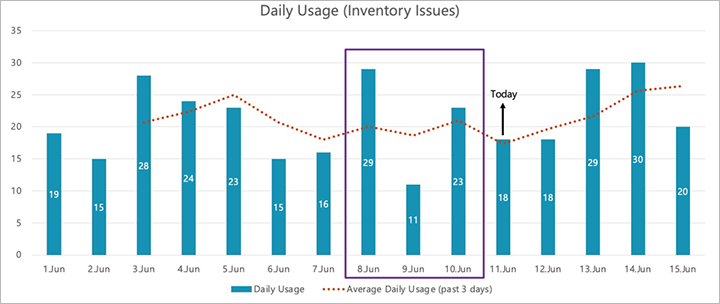
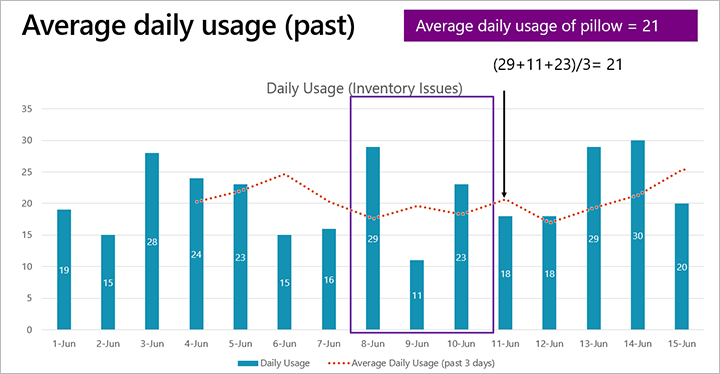
review

diff --git a/articles/supply-chain/master-planning/planning-optimization/ddmrp-buffer-profile-and-levels.md b/articles/supply-chain/master-planning/planning-optimization/ddmrp-buffer-profile-and-levels.md
@@ -18,7 +18,7 @@ ms.dyn365.ops.version: 10.0.28
 [!include [banner](../../includes/banner.md)]
 [!INCLUDE [preview-banner](../../includes/preview-banner.md)]
 
-Once you've identified your decoupling points (key items that you'll strategically keep in stock) you must decide how much stock (buffer) you'll keep at each of them. This is the second step of Demand Driven Materials Resource Planning (DDMRP).
+Once you've identified your decoupling points (key items that you'll strategically keep in stock), you must decide how much stock (buffer) you'll keep at each of them. This is the second step of Demand Driven Materials Resource Planning (DDMRP).
 
 ## Buffer levels and zones
 
@@ -67,8 +67,6 @@ The system calculates the amount you consume per day using one of three approach
 Past average daily usage (ADU) is calculated as an average by adding up the quantities used each day for a specified number of past days and then dividing by that number of days. The following illustration shows how this works when looking three days into the past.
 
 ![Average daily usage (past) chart.](media/ddmrp-adu-past.png "Average daily usage (past) chart")
-
-<!-- KFM: The average values in the figure are shifted back one day, so this image should be updated. -->
 
 In previous illustration, if today is the morning of June 11, the average daily usage for the previous three days (June 8, 9, and 10) is 21.
 
@@ -174,9 +172,12 @@ Use the following procedure to set up buffer values for a decoupling point:
     1. A dialog opens to tell you that your manual buffer settings (**Minimum**, **Reorder point**, and **Maximum**) will be reset if you continue. Select *Yes* to keep the new setting.
 1. If you prefer to calculate or enter your buffer settings just once, then do the following steps:
     1. Set **Buffer values over time** to *No*.
-    1. Set **Minimum** to the value you've calculated for the minimum stock level (red zone), as described earlier in this article.
-    1. Set **Reorder point** to the value you've calculated for the reorder point (yellow zone), as described earlier in this article.
-    1. Set **Maximum** to the value you've calculated for the maximum stock level (green zone), as described earlier in this article.
+    1. Set **Minimum**, **Reorder point**, and **Maximum** to the buffer values you've calculated for this item, as described earlier in this article.
+1. Make the following settings to finish setting up the DDMRP calculations for the item:
+    - **Order cycle** – Set to the number of days that must pass between purchase orders for this item. Set to zero if no order restrictions exist. This affects the maximum quantity buffer, as discussed previously in this article.
+    - **Average daily usage** – If you would like to, you can enter an estimated average daily usage for this item here. This is for informational purposes only; usually this value is calculated automatically as part of the buffer calculations
+    - **Order spike threshold** – Specify the minimum number of daily sales of this item that would qualify as a sales spike (unusually high demand). The system uses this value to increase the reorder quantity of planned orders in periods of high demand. See also [Demand driven planning](ddmrp-planning.md).
+
 
 ### <a name="calc-lead-time"></a>Calculate or enter decoupled lead times
 
@@ -217,7 +218,7 @@ For items where you choose to allow the system to [calculate your buffer zones a
 1. Edit the **Demand adjustment factor** field for one or more rows as needed. The system will apply this factor to the **Average daily usage** value in all buffer calculations where that value is used. This factor enables you to adjust for how demand fluctuates by date, such as for holidays or seasonal items.
 1. On the Action Pane, open the **Buffer values** tab and select **Calculate min, max and reorder point quantities**.
 1. The system calculates and populates the **Calculated min**, **Calculated reorder point** and **Calculated max** columns in the grid on the **Item coverage** page.
-1. When you are done reviewing the calculated values, you must apply them, otherwise they'll have no effect. When you apply a calculation for one or more rows, values from the **Calculated min**, **Calculated reorder**, and **Calculated max** fields are copied to the **Min**, **Reorder point**, and **Max** columns, respectively. On the Action Pane, open the **Buffer values** tab and select one of the following buttons from the **Take action** group:
+1. When you're done reviewing the calculated values, you must apply them, otherwise they'll have no effect. When you apply a calculation for one or more rows, values from the **Calculated min**, **Calculated reorder**, and **Calculated max** fields are copied to the **Min**, **Reorder point**, and **Max** columns, respectively. On the Action Pane, open the **Buffer values** tab and select one of the following buttons from the **Take action** group:
     - **Accept all calculations** – Applies all calculated values in the grid.
     - **Accept calculations for selected rows** – Only applies calculated values for the selected rows.
     - **Discard all calculations** – Discards all calculated values for min, max, and reorder points in the grid.
@@ -231,11 +232,11 @@ Use the following procedure to schedule automatic buffer value calculations:
 
 1. Go to **Master planning \> Master planning \> DDMRP \> Calculate buffer values**
 1. The **Calculate buffer values** dialog opens. Make the following settings:
-    - **Calculate average daily usage** – <!--KFM: describe the effect of each setting (yes/no) and the conditions under which you would choose each of them -->
-    - **Calculate decoupled lead time** – <!--KFM: describe the effect of each setting (yes/no) and the conditions under which you would choose each of them -->
-    - **Calculate buffer values** – <!--KFM: describe the effect of each setting (yes/no) and the conditions under which you would choose each of them -->
-    - **Accept calculation for min, max and reorder point** – <!--KFM: describe the effect of each setting (yes/no) and the conditions under which you would choose each of them -->
-    - **Master plan** – <!--KFM: describe this setting and how/when to use it. -->
+    - **Calculate average daily usage** – Set to *Yes* to recalculate the average daily usage of decoupling point items each time the job runs. Set to *No* to skip this calculation. Usually you should set this to *Yes*.
+    - **Calculate decoupled lead time** – Set to *Yes* to recalculate the decoupled lead times each time the job runs. Set to *No* to skip this calculation. Usually you should set this to *Yes*.
+    - **Calculate buffer values** – Set to *Yes* to recalculate buffer values each time the job runs. Set to *No* to skip this calculation. Usually you should set this to *Yes*.
+    - **Accept calculation for min, max and reorder point** – Set to *Yes* to automatically approve and apply the recalculated buffer values each time the job runs. Set to *No* to leave them unapplied (which means they won't take effect unless somebody manually applies them later from each product's **Item coverage** page). Usually you should set this to *Yes*.
+    - **Master plan** – Select a master plan that includes the items to be affected by this calculation. The calculation will apply to all of the items in the plan filter, additionally limited by the **Filter** settings in this dialog.
 1. To limit the set of records on which this batch job should run, expand the **Records to include** FastTab and select **Filter** to open the **Inquiry** dialog, which works the same as it does for other types of [background jobs](../../../fin-ops-core/dev-itpro/sysadmin/batch-processing-overview.md) in Supply Chain Management
 1. On the **Run in the background** FastTab, specify how, when, and how often the selected calculations should be made for the selected items. The fields work just as they do for other types of [background jobs](../../../fin-ops-core/dev-itpro/sysadmin/batch-processing-overview.md) in Supply Chain Management.
 1. Select **OK** to add the new job to a batch queue for execution.

diff --git a/articles/supply-chain/master-planning/planning-optimization/ddmrp-planning.md b/articles/supply-chain/master-planning/planning-optimization/ddmrp-planning.md
@@ -22,34 +22,31 @@ The article describes how to generate planned orders for items that are set up a
 
 ## Net flow and qualified demand
 
-<!-- KFM: We should add some sub-headings for the theory. We should introduce the terms "net flow" and "qualified demand" and explain why we are talking about them here.  -->
-
-The following illustration shows how net flow is calculated as on-hand inventory plus inventory that is on order (existing supply orders that aren't yet received) minus what we term to be qualified demand.
-<!-- KFM: The figure also confuses me--what values are we showing here? -->
+During master planning, the system applies the concept of *net flow* to establish the effective on-hand quantity based both on the actual on-hand inventory plus inventory that is on order (existing supply orders that aren't yet received) minus what we term to be *qualified demand* (qualified upcoming sales), as shown in the following illustration. The system evaluates the net flow, not the actual on-hand, when deciding which buffer zone an item belongs in and what the order quantity should be.
 
 ![Example net flow calculation chart.](media/ddmrp-net-flow-example.png "Example net flow calculation chart")
 
 When a planned order is triggered during a planning run, the quantity ordered will be the maximum level minus the net flow. The system also leverages priority-based planning functionality to assign an order priority instead of using requirement dates. DDMRP uses the order quantity as a percentage of maximum inventory as the basis for assigning the priority of a planed order. In the previous illustration, the ordered quantity is 53% of the maximum quantity, so the order priority for replenishment will be 53 (where 0 is the highest priority and 100 is the lowest).
 
-*Qualified demand* is the demand past due plus today's demand, plus qualified order spikes in the future. The following illustration shows an example of demand levels for today (June 12) and the next three days. DDMRP lets you set an order spike threshold to identify demand that exceeds normal expectations. If the threshold is set at 25 pieces, then two of the future dates shown in the illustration would qualify as order spikes. <!-- We should explain how to set the threshold for each item (maybe with link to [Inventory positioning](ddmrp-inventory-positioning.md), provided we also document the setting there, which we don't right now.) -->
+*Qualified demand* is the demand past due plus today's demand, plus qualified order spikes in the future. The following illustration shows an example of demand levels for today (June 12) and the next three days. DDMRP lets you set an order spike threshold to identify demand that exceeds normal expectations. If the threshold is set at 25 pieces, then two of the future dates shown in the illustration would qualify as order spikes. You must assign an order spike threshold individually for each product using its **Item coverage** page, as described in [Set up buffers for a decoupling point item](ddmrp-buffer-profile-and-levels.md#set-up-buffers).
 
 ![Example qualified demand calculation chart.](media/ddmrp-net-qualified-demand-example.png "Example qualified demand calculation chart")
 
-Assuming there's no demand past due, you can now add today's demand (18) to the quantities of the two order spikes (29 and 26), to get a qualified demand of 73. Notice that even though there's demand for June 15, this isn't included in the net flow calculation because DDMRP is different from traditional planning coverage groups in the way it triggers planned orders.
+Assuming there's no demand past due, you can now add today's demand (18) to the quantities of the two order spikes (29 and 26), to get a qualified demand of 73. Notice that even though there's demand for June 23, this isn't included in the net flow calculation because DDMRP is different from traditional planning coverage groups in the way it triggers planned orders.
 
 ## Generating planned orders with DDMRP
 
 During a planning run, the system will create a new planned order when the net flow for an item falls below the reorder point level. When you use DDMRP, you'll usually do a planning is run every day, so you're essentially checking your inventory levels once a day to determine which items need to be replenished.
 
-The following screenshot shows <!-- What is this? Planned orders? What is the page name? --> an example of a situation where you have an order for 18 pieces on June 20, an order for 29 the next day, 26 the following day, and 20 on June 23. The spike threshold is set at 25 pieces, so two fo these orders are flagged as spikes. Finally, there are 220 pieces of this item on hand. <!-- These dates don't match those of the earlier bar graph. Are they supposed to? -->
+The following screenshot shows an example of a situation where you have an order for 18 pieces on June 20, 29 on June 21, 26 on June 22, and 20 on June 23. The spike threshold is set at 25 pieces, so two fo these orders are flagged as spikes. Finally, there are 220 pieces of this item on hand. 
 
 ![Planning example 1.](media/ddmrp-planning-example-1.png "Planning example 1")
 
-Now let's select update <!-- Where do we select this? --> and run master planning and see what happens. Master planning will generate a planned order if the net flow drops below the reorder point, which in this example is 219 pieces. <!-- I don't understand this example. How does this math work? Why are we ordering on the 27th? -->
+If you were to run master planning now, it will generate a planned order if the net flow is found to drop below the reorder point, which in this example is 219 pieces.
 
 ![Planning example 2.](media/ddmrp-planning-example-2.png "Planning example 2")
 
-This example results in a planned purchase order for a quantity of 130, which is the maximum level minus the net flow. The planned order is assigned a priority of 53.07 based on its percentage of the maximum quantity.
+This example results in a planned purchase order for a quantity of 130, which is the maximum level minus the net flow. The planned order is assigned a priority of 53.07 based on its percentage of the maximum quantity. These values were found on June 20, so the system creates a planned order dated for June 20 plus the decoupled lead time for the item (which in this case is five business days). Five business days is one week from today, so the planned order is dated for June 27.
 
 > [!NOTE]
 > Planning Optimization only calculates decoupled items using DDMRP. All other items are calculated using standard MRP.

diff --git a/articles/supply-chain/master-planning/planning-optimization/ddmrp-inventory-positioning.md b/articles/supply-chain/master-planning/planning-optimization/ddmrp-inventory-positioning.md
@@ -106,29 +106,12 @@ To set an item as a decoupling point, follow these steps:
 1. Go to **Product information management \> Products \> Released products**
 1. Find and select a released item that you want to set up for DDMRP.
 1. On the Action pane, open the **Plan** tab and select **Item coverage**.
-1. The **Item coverage** page opens. On the Action Pane, select **New** to create a new item coverage record. <!-- KFM: What if coverage records already exist? Do we recommend having more than one of these when using DDMRP? Maybe this text from the draft is relevant here (more detail is needed): "Among other things you can create many different Item coverage codes if you want many different defaults. There is the easiest way to specify a decoupling point."
-
-dimensions: product, storage and tracking
--->
-1. Set up the item coverage record as usual and then, with the new record still selected, open the **General** tab. <!-- KFM: Can we give better advice here than just "as usual"? Maybe this text from the draft is relevant here (more detail is needed): "Besides, you have to specify all the dimensions. If you miss site or warehouse that are mandatory for this item, you will not be able to define the decoupling point for this item." -->
+1. The **Item coverage** page opens. You might have several different item coverage records already listed, each of which applies to a different combination of storage and product dimensions. Either select an existing item coverage record that applies to the dimensions where you want to create a decoupling point, or select **New** from the Action Pane to create a new one. 
+1. Set up the item coverage record as usual. You must, at minimum, specify the **Site** and **Warehouse** where the decoupling point will apply.
+1. With the appropriate record still selected, open the **General** tab.
 1. Select the **Use specific settings** check box.
 1. Set **Coverage group** to a coverage group that is set up to create decoupling points (as described in the previous section).
-1. <!-- KFM: We seem to have other DDMRP settings that should be described here, including **average daily usage**, **order cycle** and **order spike threshold** -->
-
-<!-- The purpose of the following text isn't clear. Are these the settings from the decoupling coverage group? I think we can just delete this.
-
-        To define a decoupling point for specific item you have to put this definition on the item coverage level. You need to specify the following fields:
-        
-        **Coverage code** = Decoupling point. The value of the field determines the principle of replenishment. All records with Decoupling points value are considered by the system as part of the data for DDMRP planning.
-        
-        **Lead time factor** – The values range from 0 to 1 and the guidance is that the longer the lead time is, the lower the value should be.
-        
-        **Variability factor** – The values once again range from 0 to 1 and the guidance for this is that products with a higher demand variability should have a higher value for this factor
-        
-        **Average daily usage past period (days)** – the value means how much do you consume when you order from the moment you order until the order arrives.
-        
-        **Min, max and reorder-point period** – ???
--->
+1. The item is now configured as a decoupling point. Usually, when using DDMRP, you will also make settings here that affect its buffer sizes and reorder quantity, but you can wait to do that until later. For more information about these settings, see [Set up buffers for a decoupling point item](ddmrp-buffer-profile-and-levels.md#set-up-buffers).
 
 > [!NOTE]
-> You should plan all items that aren't decoupling points just as you would when using standard MRP.
+> You will plan all items that aren't decoupling points just as you would when using standard MRP.

diff --git a/articles/supply-chain/master-planning/planning-optimization/ddmrp-visual-and-collaborative-execution.md b/articles/supply-chain/master-planning/planning-optimization/ddmrp-visual-and-collaborative-execution.md
@@ -49,11 +49,28 @@ The **Demand driven MRP** workspace provides several tools with KPIs and overvie
 
 ![The Demand driven MRP workspace.](media/ddmrp-workspace.png "The Demand driven MRP workspace")
 
-<!-- KFM: The following pages still require documentation; note also that the final page title contains a misspelling:  
+## Get overviews of decoupling points and planned orders
 
-- Decoupling points status by net flow
-- Decoupling points status by on-hand
-- Planned orders for decoupling points
-- Cleanup decoupling point buffer values
+In addition to the **Demand driven MRP** workspace, Supply Chain Management provides several pages where you can view information about your DDMRP setup, decoupling points, and planned orders. Some of these pages also provide convenient buttons in the Action Pane that enable you to manage buffers, run master planning, and/or navigate to other related views.
 
--->
+- To view decoupling point status by net flow, go to **Master planning \> Master planning \> DDMRP \> Decoupling points status by net flow**.
+- To view decoupling point status by on-hand, go to **Master planning \> Master planning \> DDMRP \> Decoupling points status by on-hand**.
+- To view planned orders for decoupling points, go to **Master planning \> Master planning \> DDMRP \> Planned orders for decoupling points**.
+- To view decoupled lead times, go to **Master planning \> Master planning \> DDMRP \> Decoupled lead time**.
+
+## Clean up decoupling point buffer values
+
+With time, your system will build up a large amount of historical data related to ongoing buffer calculations. This will cause your data volume to increase and can eventually affect the performance of your system. Therefore, we recommend that you clean up the old decoupling point buffer values from time to time.
+
+> [!WARNING]
+> Running this job will remove historical buffer value settings and historical on-hand/net flow information and is not reversible.
+
+Use the following procedure to clean up your decoupling point buffer values 
+
+1. Go to **Master planning \> Master planning \> DDMRP \> Clean up decoupling point buffer values**
+1. The **Clean up decoupling point buffer values** dialog opens. Make the following settings:
+    - **Delete records older than (days)** – Specify the age of the youngest record to keep. All decoupling point buffer value records older than this will be deleted.
+    - **Master plan** – Select a master plan that includes items to be affected by this cleanup. The cleanup will apply to all of the items in the plan filter limited by the **Filter** settings you make in this dialog.
+1. To limit the set of records on which this batch job should run, expand the **Records to include** FastTab and select **Filter** to open the **Inquiry** dialog, which works the same as it does for other types of [background jobs](../../../fin-ops-core/dev-itpro/sysadmin/batch-processing-overview.md) in Supply Chain Management
+1. On the **Run in the background** FastTab, specify how, when, and how often the cleanup should be made. The fields work just as they do for other types of [background jobs](../../../fin-ops-core/dev-itpro/sysadmin/batch-processing-overview.md) in Supply Chain Management.
+1. Select **OK** to add the new job to a batch queue for execution.
